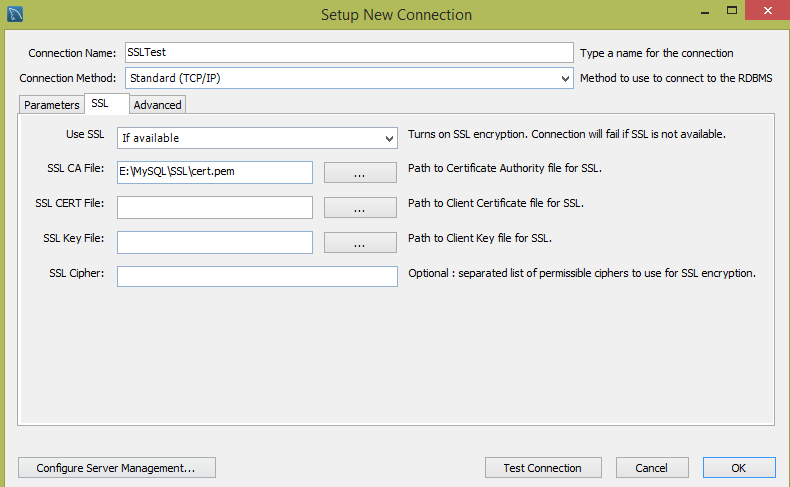
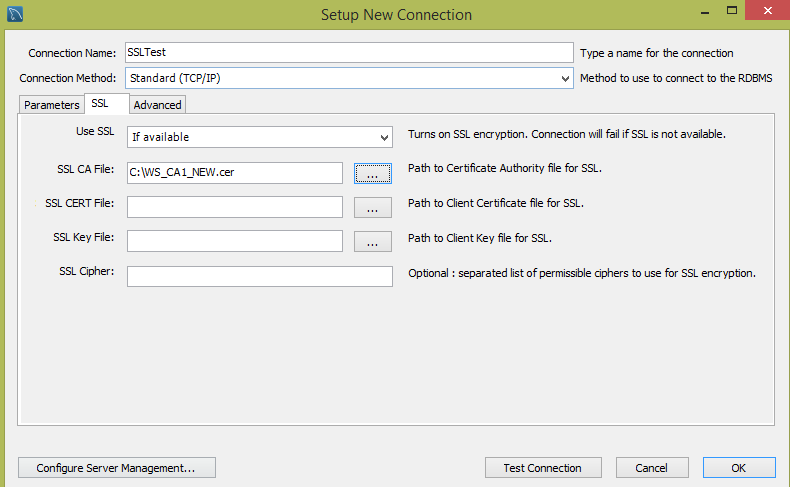
Update SSL Connection pics and Operation Limitations doc

Changed region(s): [[0.0608, 0.2464, 0.5165, 0.5852], [0.0304, 0.4004, 0.1519, 0.4312]]

diff --git a/articles/mysql/mysql-database-ssl-connection.md b/articles/mysql/mysql-database-ssl-connection.md
@@ -6,7 +6,7 @@
 - [中文](/documentation/articles/mysql-database-ssl-connection/)
 - [English](/documentation/articles/mysql-database-enus-ssl-connection/)
 
-<tags ms.service="mysql" ms.date="07/05/2016" wacn.date="07/05/2016" wacn.lang="cn" />
+<tags ms.service="mysql" ms.date="10/10/2016" wacn.date="10/10/2016" wacn.lang="cn" />
 
 通过SSL加密访问数据库，可以保障您访问的安全性，本文介绍如何下载并配置SSL证书。目前MySQL Database on Azure支持利用公钥在服务器端进行加密验证。
 
@@ -19,7 +19,7 @@
 ## 步骤 2：使用SSL来连接MySQL Database on Azure上的服务器
 
 ### 利用MySQL客户端进行配置
-以MySQL.exe为例，创建连接时需使用--ssl-ca参数来指定公钥证书。关于SSL连接的更多信息，请参考 Using SSL for Secure Connections。
+以MySQL.exe为例，创建连接时需使用--ssl-ca参数来指定公钥证书。
 
 参考样例：
 
